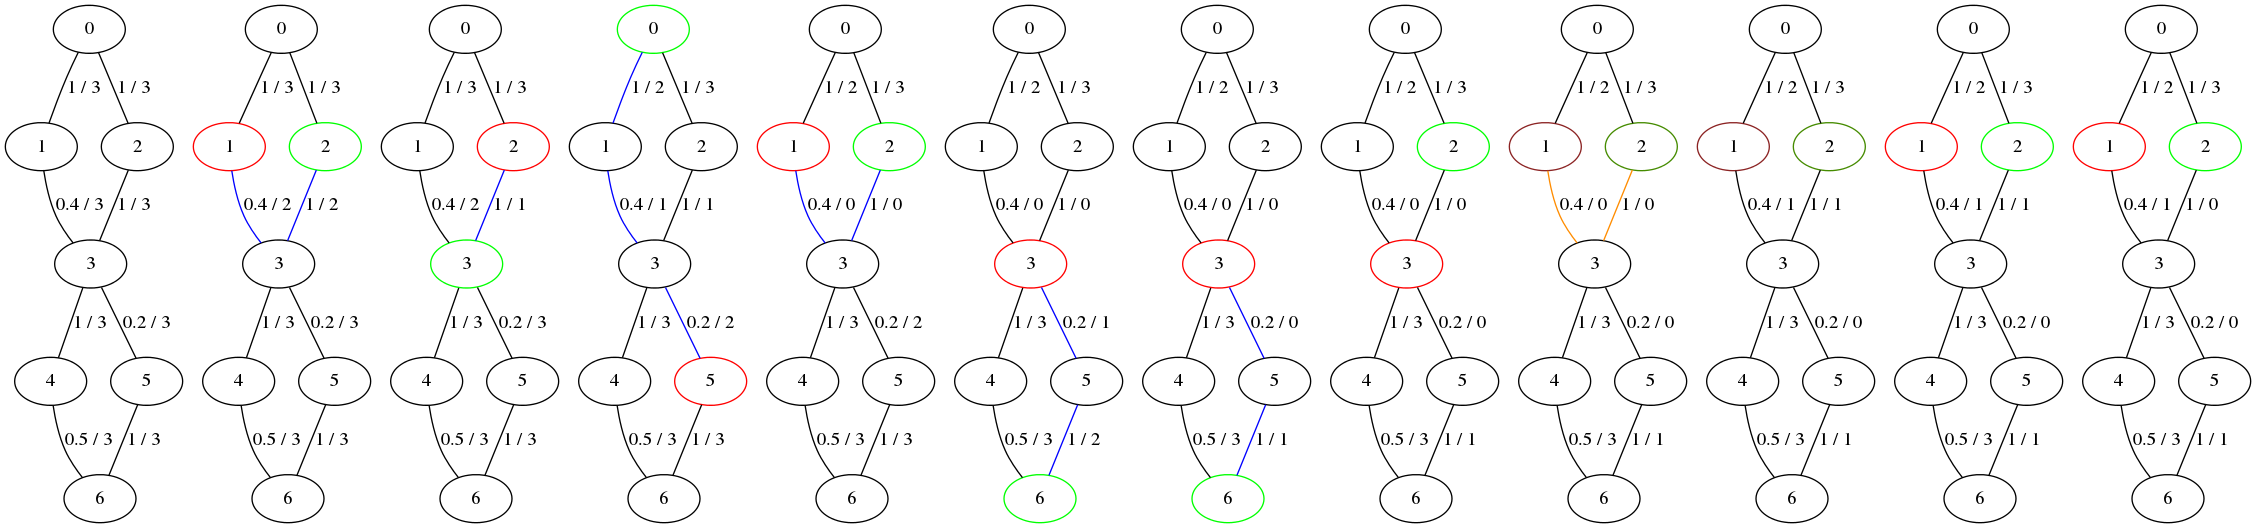
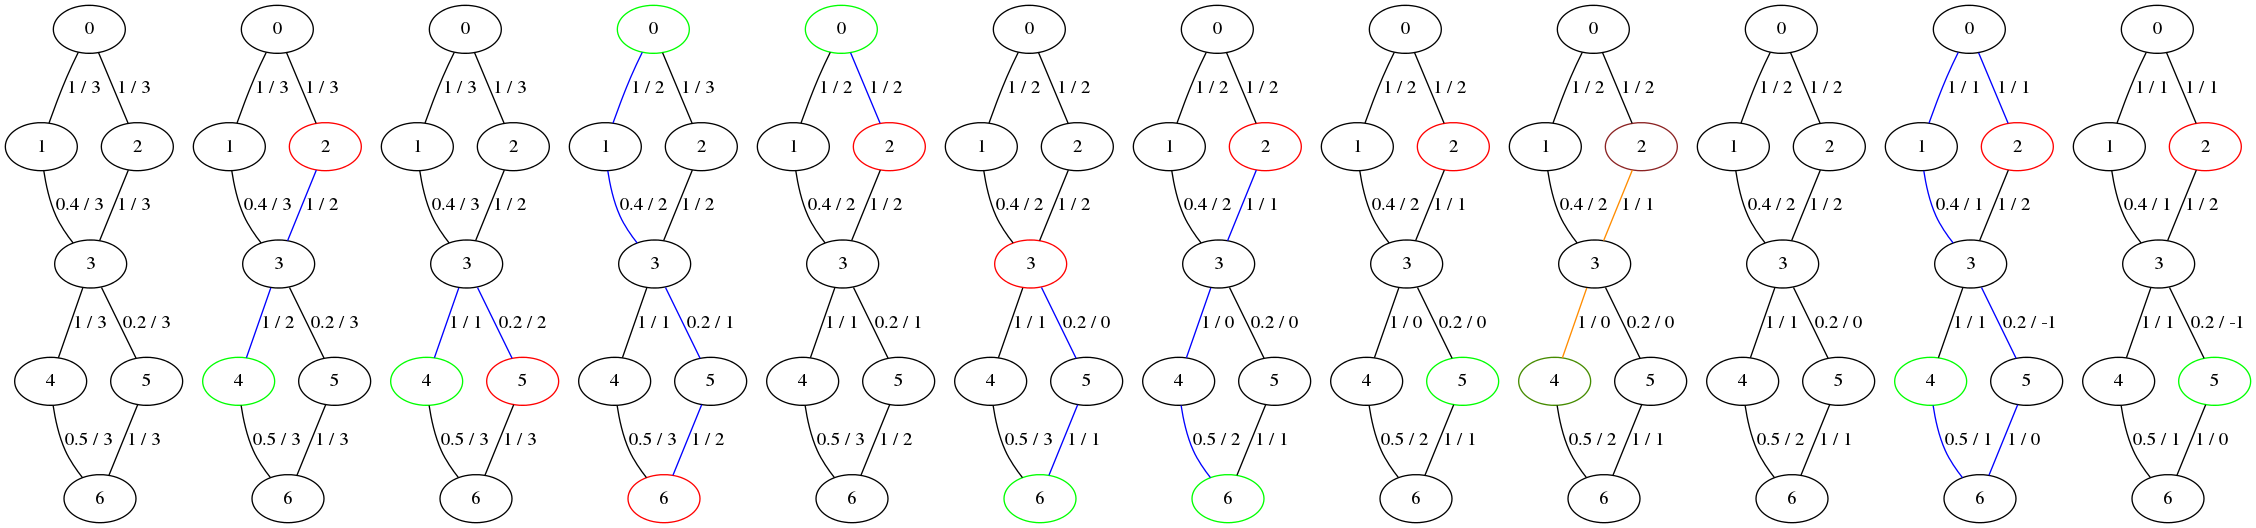
bug fixed for new rerouting idea

diff --git a/graphFunctions.py b/graphFunctions.py
@@ -14,7 +14,7 @@ import operator
 ####################################################################
 
 # finds and allocates a path
-def alloc(G, d, path_selection_criterion, sel_paths_book):
+def alloc(G, d, path_selection_criterion):
 	# copy of graph for pruning and updating
 	G_prune=copy.deepcopy(G)
 	G_updated=copy.deepcopy(G)
@@ -22,7 +22,7 @@ def alloc(G, d, path_selection_criterion, sel_paths_book):
 	path_pack=[]
 	sel_path=[]
 
-	print '\nDemand: '
+	print '\nFinding path for Demand: '
 	print 'Path to find: '+str(d.source)+' ==> '+str(d.target)
 	print "bw req: "+str(d.bw)
 	print "lat req: "+str(d.lat)
@@ -32,7 +32,7 @@ def alloc(G, d, path_selection_criterion, sel_paths_book):
 
 	# path finding
 	paths_pack = shortest_p(G_prune,d.get_source(),d.get_target(),d.get_lat())
-	print '\nPaths (with lat.) found: \n'+str(paths_pack)
+	print '\nPaths (holding lat.) found: \n'+str(paths_pack)
 
 	if paths_pack!=[] and paths_pack!=None:
 		# store found paths in demand
@@ -42,49 +42,41 @@ def alloc(G, d, path_selection_criterion, sel_paths_book):
 		# store sel path in demand
 		d.set_allocated()
 		d.set_path(sel_path)
-		print 'd.path is '+str(d.path)
+		print 'Allocating path '+str(d.path)
 		# update graph
 		G_updated=update_edges(G_updated, sel_path, d.get_bw())
-		# store sel path in dictionary book
-		sel_paths_book[(d.get_source(),d.get_target())]=sel_path
 
-	return [G_updated, paths_pack, sel_path, sel_paths_book]
+	return [G_updated, paths_pack, sel_path]
 
 # allocates an indicated path
-def alloc_p(G, d, sel_path, sel_paths_book):
+def alloc_p(G, d, sel_path):
 	# copy of graph updating
 	G_updated=copy.deepcopy(G)
 
-	path_pack=[]
-	sel_path=[]
-
-	print '\nDemand: '
-	print 'Path to find: '+str(d.source)+' ==> '+str(d.target)
+	print '\nAllocating Demand: '+str(d.source)+' ==> '+str(d.target)
+	print 'with given path '+str(sel_path)
 	print "bw req: "+str(d.bw)
-	print "lat req: "+str(d.lat)
+	print "lat req: "+str(d.lat)+'\n'
 
 	# store sel path in demand
 	d.set_allocated()
 	d.set_path(sel_path)
-	print 'd.path is '+str(d.path)
+	print 'd.path is '+str(d.get_path())
 	# update graph
 	G_updated=update_edges(G_updated, sel_path, d.get_bw())
-	# store sel path in dictionary book
-	sel_paths_book[(d.get_source(),d.get_target())]=sel_path
 
-	return [G_updated, sel_path, sel_paths_book]
+	return [G_updated, sel_path]
 
-# un-allocates a paths
-def unalloc(G_updated, d, sel_paths_book):
+# deallocates a paths
+def dealloc(G_updated, d):
+	print 'deallocating '+str(d.get_path())
 	# update graph
 	G_updated=update_edges(G_updated, d.get_path(), -d.get_bw())
-	# delete entry in sel path dictionary
-	sel_paths_book.pop((d.get_source(),d.get_target()))
 	# delete allocation in demand
 	d.set_unallocated()
 	d.set_path([])
 
-	return [G_updated, sel_paths_book]
+	return [G_updated]
 
 # returns shortest paths that fit lat req.
 def shortest_p(G,s,t,lat):
@@ -101,7 +93,7 @@ def shortest_p(G,s,t,lat):
 				paths_pack.append((path,path_lat,path_hops))
 		return paths_pack
 	else:
-		print 'There is no path'
+		# there is no path
 		return []
 
 # returns minimum latency in graph
@@ -142,6 +134,15 @@ def prune_bw(G, bandwidth):
 				print 'prune edge: '+str(n)+','+str(nbr)
 	return G
 
+# get all selected paths
+def sel_paths(demand_list):
+	all_sel_paths={}
+	for d in demand_list:
+		path=d.get_path()
+		if path!=[]:
+			all_sel_paths[(d.get_source(),d.get_target())]=path
+	return all_sel_paths
+
 # returns link utilization
 def link_util(G,F):
 
@@ -172,28 +173,29 @@ def link_util(G,F):
 
 
 # saves link utilization to l_util.png
-def util_histo(G, G_updated):
-	edges = G.edges()
-	d = {}
+def util_histo(G, G_updated, plot_enable):
+	if plot_enable:
+		edges = G.edges()
+		d = {}
 
-	for edge in edges:
-		from_node = edge[0]
-		to_node = edge[1]
-		orig_bw = G[from_node][to_node]['bw']
-		end_bw = G_updated[from_node][to_node]['bw']
-		used_bw=float(orig_bw)-float(end_bw)
-		partial_util=float(used_bw)/float(orig_bw)
-		d[from_node, to_node] = partial_util
+		for edge in edges:
+			from_node = edge[0]
+			to_node = edge[1]
+			orig_bw = G[from_node][to_node]['bw']
+			end_bw = G_updated[from_node][to_node]['bw']
+			used_bw=float(orig_bw)-float(end_bw)
+			partial_util=float(used_bw)/float(orig_bw)
+			d[from_node, to_node] = partial_util
 
-	X = range(len(d))
-	pl.bar(X, d.values(), align='center', width=0.5, color='orange')
-	pl.xticks(X, d.keys())
-	ymax = max(d.values())*1.1
-	pl.ylim(0, ymax)
-	pl.title('Link Utilization')
-	pl.xlabel('Links')
-	pl.ylabel('Utilization')
-	pl.savefig('l_util.png')
+		X = range(len(d))
+		pl.bar(X, d.values(), align='center', width=0.5, color='orange')
+		pl.xticks(X, d.keys())
+		ymax = max(d.values())*1.1
+		pl.ylim(0, ymax)
+		pl.title('Link Utilization')
+		pl.xlabel('Links')
+		pl.ylabel('Utilization')
+		pl.savefig('l_util.png')
 
 
 # returns updated graph based on path allocation

diff --git a/pathfinder.py b/pathfinder.py
@@ -49,9 +49,6 @@ number_of_rerouting_attempts_pool=0
 
 for j in range(repeats):
 
-	# dict for all sel paths
-	sel_paths_book={}
-
 	# get working copy of graph
 	G_updated=copy.deepcopy(G)
 
@@ -80,7 +77,7 @@ for j in range(repeats):
 		print '\n \n########### \n'+str(i)+'th iteration'
 
 		# allocate path in graph	
-		[G_updated, paths_pack, sel_path, sel_paths_book]=gf.alloc(G_updated,d_list[i],path_selection_criterion, sel_paths_book)
+		[G_updated, paths_pack, sel_path]=gf.alloc(G_updated,d_list[i],path_selection_criterion)
 
 		# plot the chosen path
 		if sel_path!=[]:
@@ -103,41 +100,44 @@ for j in range(repeats):
 
 				# Find least intersecting demand
 				# find intersections of optimal path with previous allocations				
-				print 'which would have all the following intersections: '
-				intersect_dict=gf.check_setintersection(optimal_path, sel_paths_book.values())
+				print 'having the following intersections: '
+				intersect_dict=gf.check_setintersection(optimal_path, gf.sel_paths(d_list).values())
 				print intersect_dict
 				if intersect_dict!={}:
 					# find critical intersection path
-					print 'although the critical one is: '+str(intersect_dict[max(intersect_dict)])
 					critical_intersect = intersect_dict[min(intersect_dict)]
+					print 'although the critical one is: '+str(critical_intersect)
 					# find according demand
 					print 'therefore rerouting the path from '+str(critical_intersect[0])+' to '+str(critical_intersect[-1])
 					d_u=demand_dict[critical_intersect[0],critical_intersect[-1]]
 					# Look for path for d_u that does not intersect with optimal_path
 					d_u_paths=[path for (path,lat,hops) in d_list[d_u].paths_pack]
+					print 'which has the following paths stored: '+str(d_u_paths)
 					d_u_intersect_paths=gf.check_setintersection(optimal_path, d_u_paths)
 					# if there are multiple such paths, take the shortest p_u for d_u
 					# if there is no such paths, take the least intersecting one p_u for d_u
-					p_u = min(d_u_intersect_paths)
+					p_u_index = min(d_u_intersect_paths)
+					p_u=d_u_intersect_paths[p_u_index]
 					# deallocate d_u
 					# plot path to un-allocated
 					[plot_pngs, plot_counter] = gf.ppng(G_updated, d_list[d_u], plot_pngs, plot_counter, 2, plot_enable)
 					number_of_rerouting_attempts+=1
-					# un-allocate
-					[G_updated, sel_paths_book] = gf.unalloc(G_updated, d_list[d_u], sel_paths_book)
+					# deallocate
+					[G_updated] = gf.dealloc(G_updated, d_list[d_u])
 					# plot un-allocated graph
-					[plot_pngs, plot_counter] = gf.ppng(G_updated, d_list[d_u], plot_pngs, plot_counter, 2, plot_enable)
+					[plot_pngs, plot_counter] = gf.ppng(G_updated, None, plot_pngs, plot_counter, 2, plot_enable)
 					# allocate d_u with new path p_u
-					print 'allocate d_u with new path p_u'
-					[G_updated, sel_path, sel_paths_book] = gf.alloc_p(G_updated, d_list[d_u], p_u, sel_paths_book)
+					print 'allocate d_u with new path p_u: '+str(p_u)
+					[G_updated, sel_path] = gf.alloc_p(G_updated, d_list[d_u], p_u)
 					# plot p_u with p_u allocated path
 					[plot_pngs, plot_counter] = gf.ppng(G_updated, d_list[d_u], plot_pngs, plot_counter, 1, plot_enable)
+					########### mache das folgende nur, wenn das vorher geglueckt ist!!  ##### 
 					# try to allocate d_n
-					[G_updated, paths_pack, sel_path, sel_paths_book]=gf.alloc(G_updated,d_list[i],path_selection_criterion, sel_paths_book)
+					[G_updated, paths_pack, sel_path]=gf.alloc(G_updated,d_list[i],path_selection_criterion)
 					if paths_pack!=[]:
 						number_of_rerouting_success+=1	
 					# plot d_n
-					[plot_pngs, plot_counter] = gf.ppng(G_updated, d_list[d_u], plot_pngs, plot_counter, 1, plot_enable)
+					[plot_pngs, plot_counter] = gf.ppng(G_updated, d_list[i], plot_pngs, plot_counter, 1, plot_enable)
 
 
 
@@ -163,9 +163,9 @@ for j in range(repeats):
 	print 'Acceptance ratio: '+str(acceptance_ratio*100)+'%'
 	print 'Link utilization: '+str(gf.link_util(G,G_updated))
 	# saves link utilization to l_util.png
-	os.system('rm l_util.png')
-	gf.util_histo(G, G_updated)
-	print 'sel path book:\n'+str(sel_paths_book)
+	gf.util_histo(G, G_updated, plot_enable)
+	print 'sel path book:\n'+str(gf.sel_paths(d_list))
+
 
 	# plot
 	if plot_enable:
